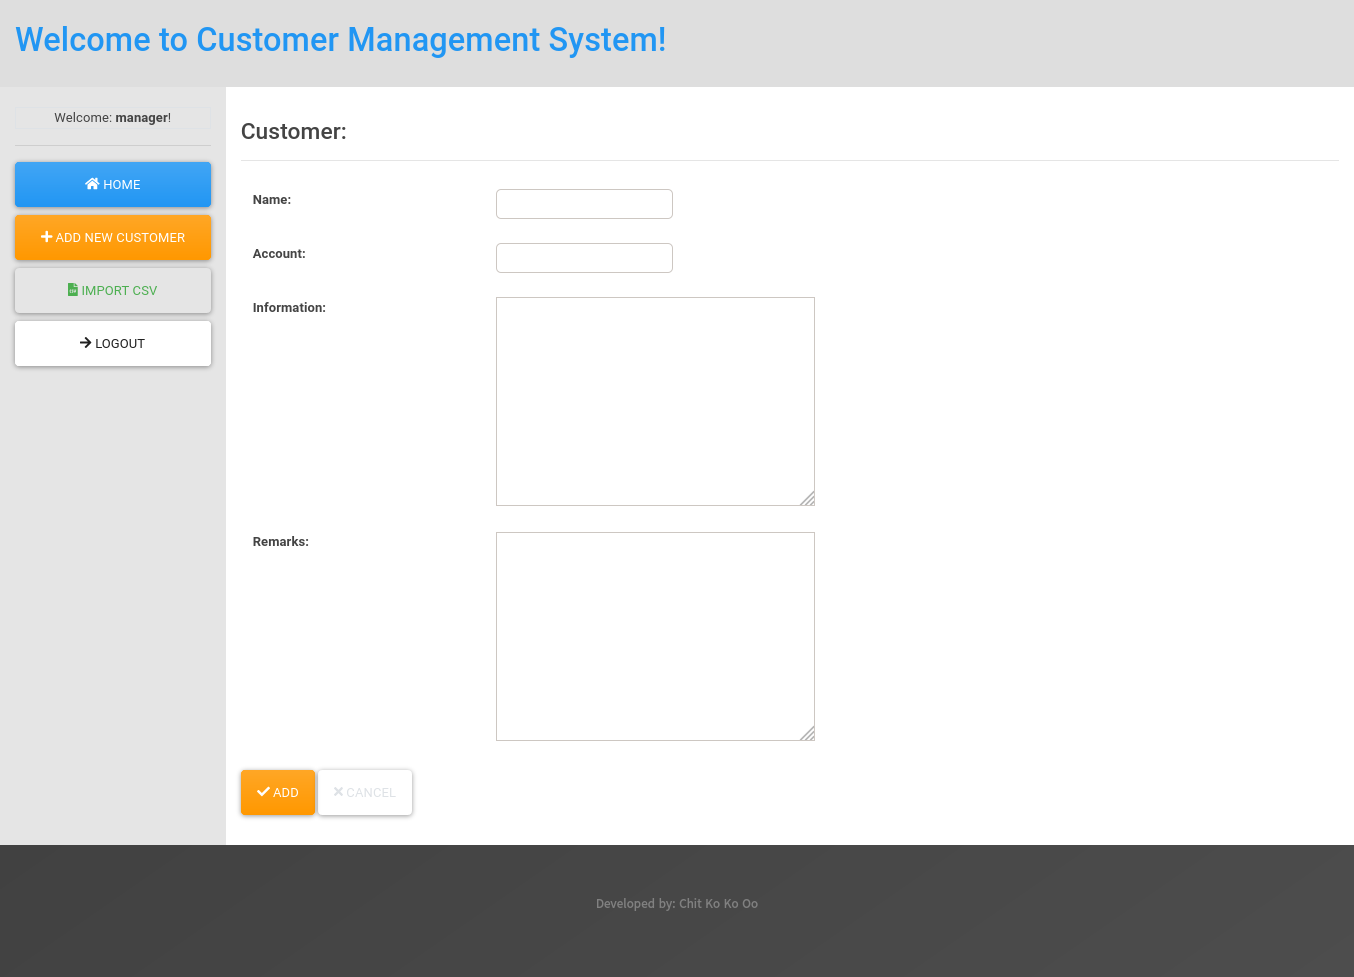
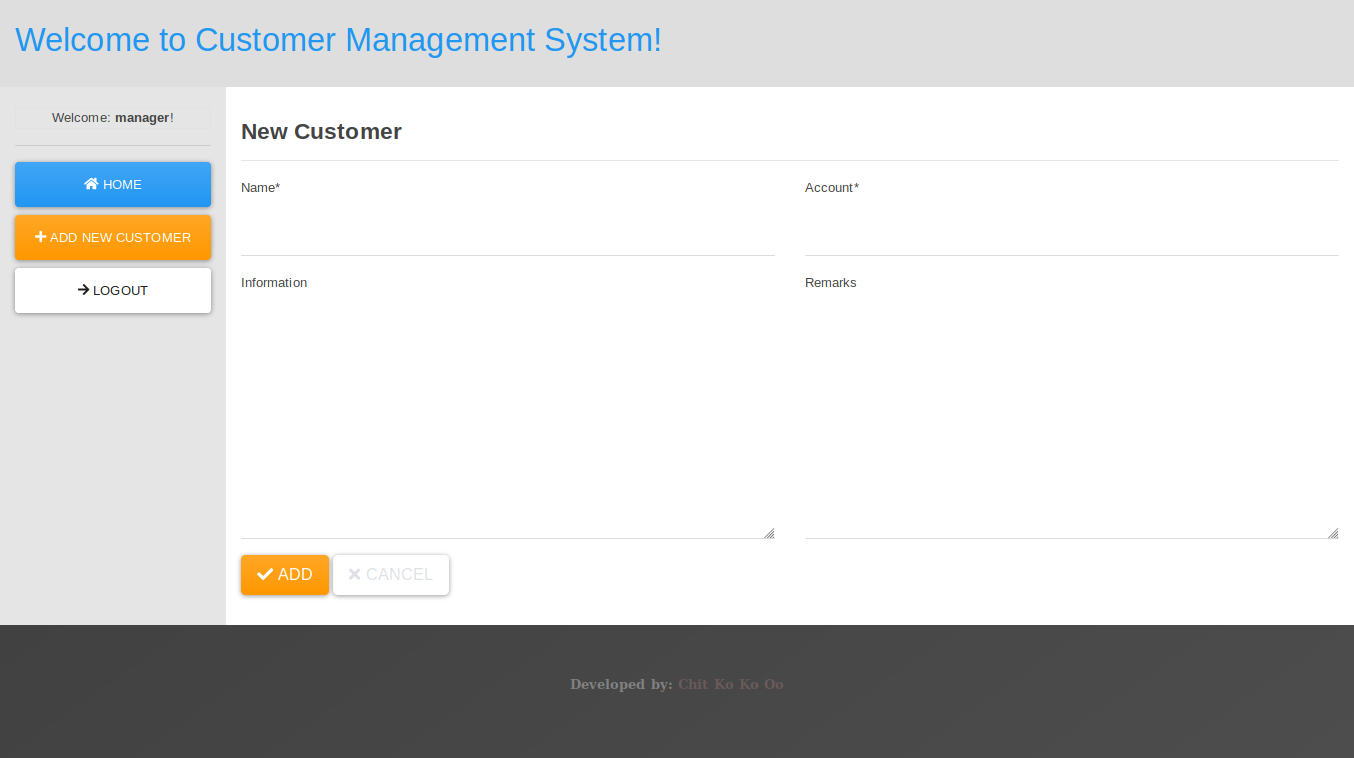
redesign customer form layout

diff --git a/cms/customers/templates/customers/customer_form.html b/cms/customers/templates/customers/customer_form.html
@@ -10,11 +10,32 @@
 
 {% block content %}
 {% load crispy_forms_tags %}
-	<h3>Customer: {{ customer.name }}</h3>
+	<h3>
+		{% if customer %}
+			<b>Customer:</b> {{ customer.name }}
+		{% else %}
+			<b>New Customer</b>
+		{% endif %}	
+	</h3>
 	<hr>
 	<form action="" method="POST" class="form">
 		{% csrf_token %}
-		{{ form|crispy }}
+		<div class="row">
+			<div class="col-md-6">
+				{{ form.name|as_crispy_field }}
+			</div>
+			<div class="col-md-6">
+				{{ form.account|as_crispy_field }}
+			</div>
+		</div>
+		<div class="row">
+			<div class="col-md-6">
+				{{ form.information|as_crispy_field }}
+			</div>
+			<div class="col-md-6">
+				{{ form.remarks|as_crispy_field}}
+			</div>
+		</div>
 		{% if customer %}
 		<button type="submit" name="update-customer" class="btn btn-lg btn-warning">
 			<i class="fa fa-check"></i> Update
